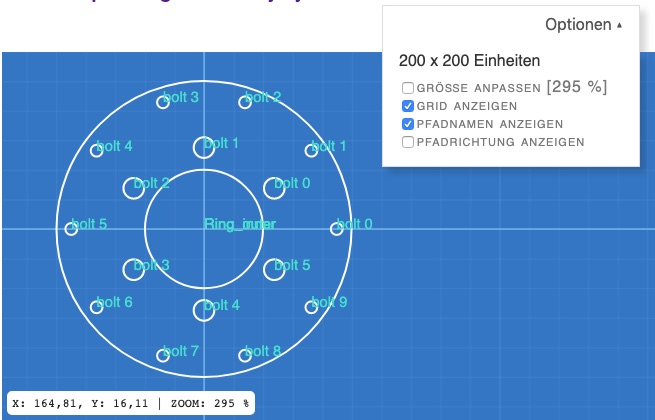
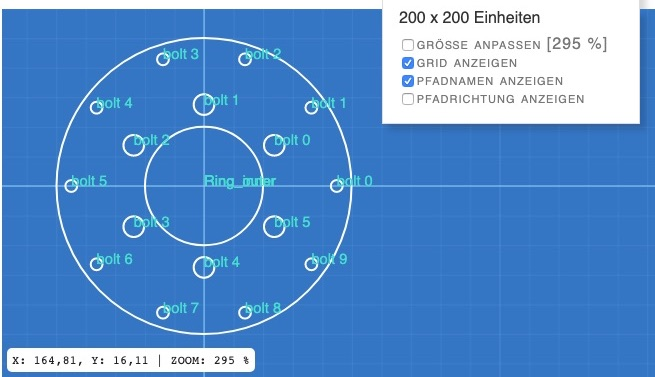
fontSize should depend on model measurements

Changed region(s): [[0.0, 0.0, 1.0, 0.992], [0.9771, 0.0, 1.0, 0.1459]]

diff --git a/src/geometry.ts b/src/geometry.ts
@@ -60,8 +60,14 @@ export function getNaturalSize(measure: makerjs.IMeasureWithCenter) {
     return [measure.high[0] - measure.low[0], measure.high[1] - measure.low[1]]
 }
 
-export function renderOptions(view: ViewState) {
-    const fontSize = 2
+export function renderOptions(view: ViewState, measurement: makerjs.IMeasureWithCenter | null) {
+    var fontSize = 2
+    if (measurement) {
+        const size = getNaturalSize(measurement)
+        const minSize = Math.min(size[0], size[1])
+        fontSize = 1 / 25 * minSize
+    }
+
     return {
         origin: view.origin,
         annotate: true,

diff --git a/src/store/reducer.ts b/src/store/reducer.ts
@@ -20,7 +20,7 @@ export default (state: RootState, action: ActionType) => {
             const model = action.model
             var svgString: string | null = null
             if (model && isMakerModel(model)) {
-                svgString = makerjs.exporter.toSVG(model, renderOptions(view))
+                svgString = makerjs.exporter.toSVG(model, renderOptions(view, makerjs.measure.modelExtents(model)))
             } else if (model && typeof model === "string") {
                 svgString = model
             }

diff --git a/README.md b/README.md
@@ -52,7 +52,7 @@ The model property may either be `makerjs.IModel` object or `*.svg` data supplie
 ```
 
 Output:
-<img alt="Example Bolts" src="/Screenshots/bolts.jpg?raw=true" width="100%">
+<img alt="Example Bolts" src="/Screenshots/bolts.jpg?raw=true">
 
 
 
@@ -63,7 +63,7 @@ Output:
 ```
 
 Output:
-<img alt="SVG Example" src="/Screenshots/circle.jpg?raw=true" width="100%">
+<img alt="SVG Example" src="/Screenshots/circle.jpg?raw=true">
 
 
 ## License
